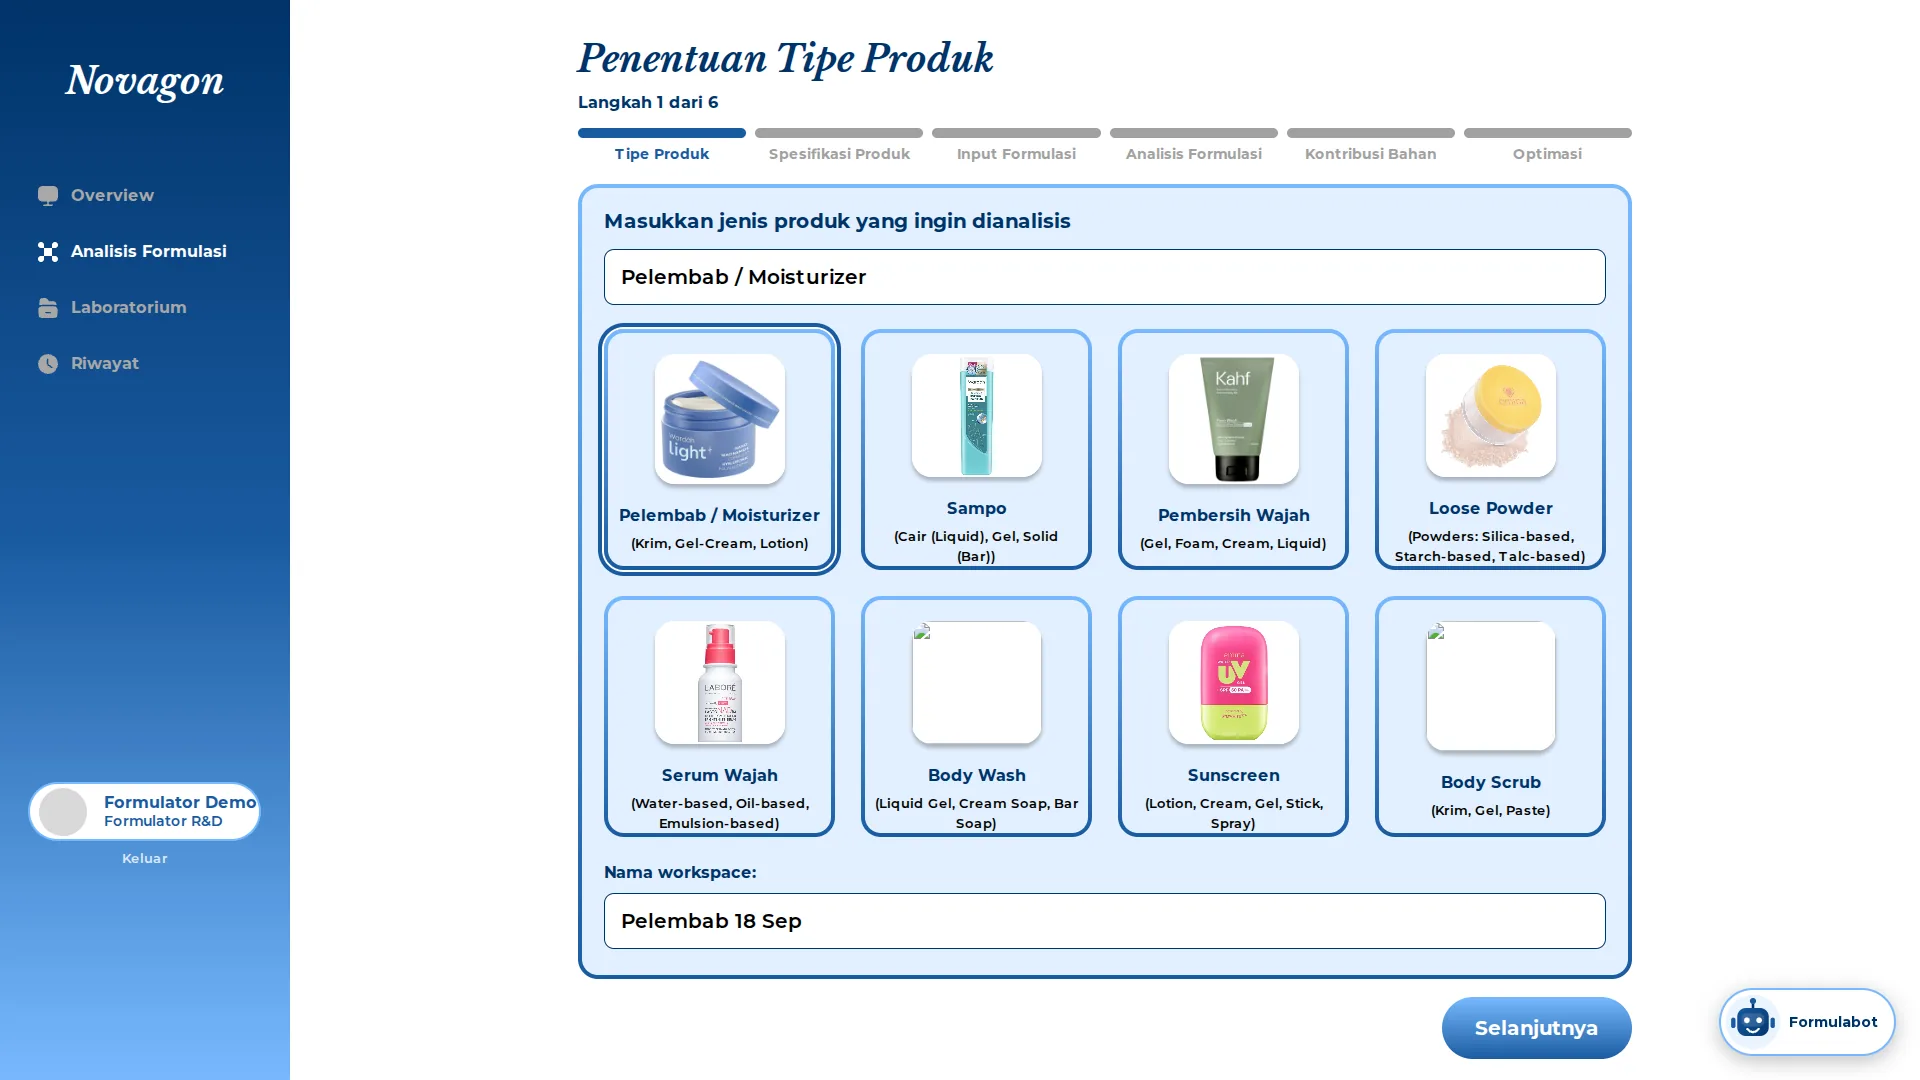
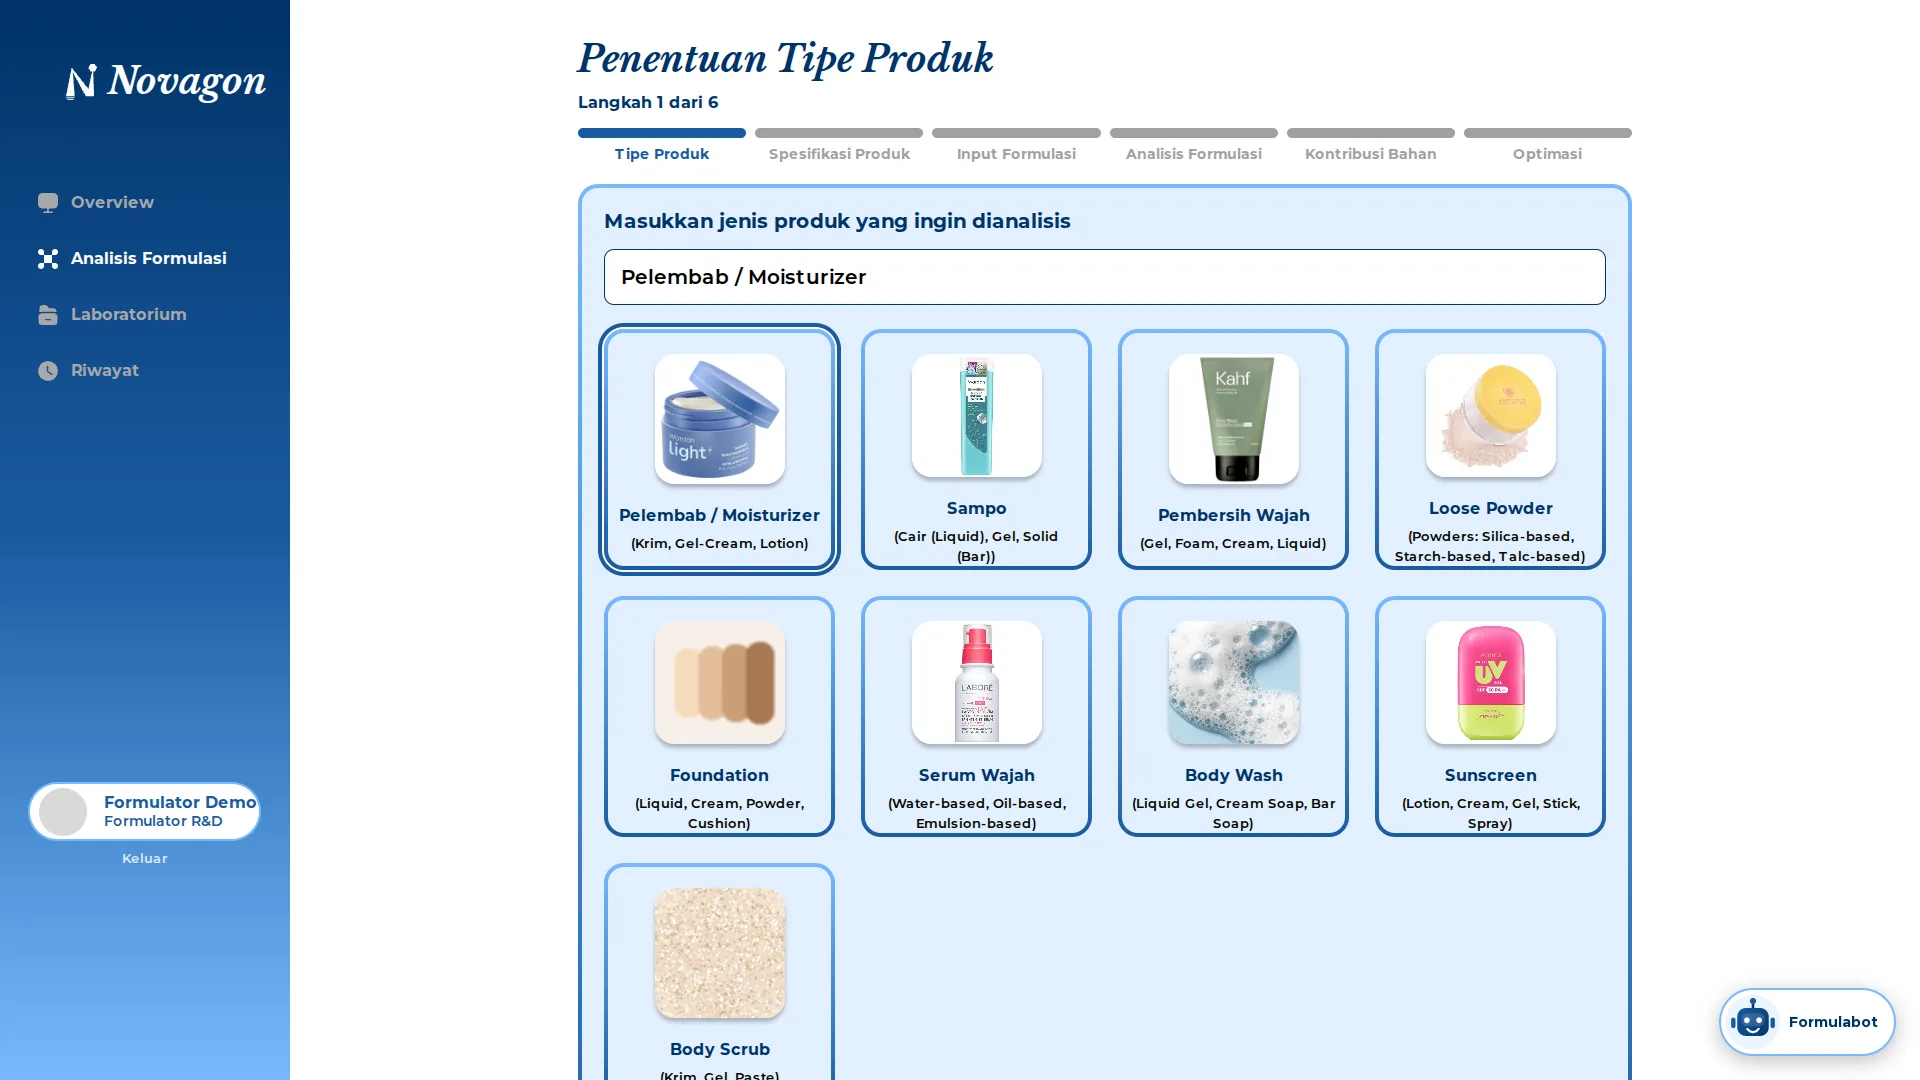
style(landing): show wizard screenshots as a 3d coverflow
The six screenshots sat in a static grid. They now rotate through a
coverflow: the active step faces front, neighbours turn away and fade
toward the edges, and the strip advances every 4.5 seconds. Step 1 is
recaptured after every product image finished loading.

diff --git a/src/components/landing/Sections.tsx b/src/components/landing/Sections.tsx
@@ -1,5 +1,8 @@
+'use client'
+
 import { Logo } from '@/components/ui/Logo'
 import Link from 'next/link'
+import { useEffect, useState } from 'react'
 import { Reveal, Wave, SignInLink } from './Motion'
 
 const STEPS = [
@@ -36,6 +39,61 @@ const BRANDS = [
 
 const container = 'mx-auto max-w-[1150px] px-4 sm:px-8'
 
+/** Coverflow: the active shot faces front, neighbours turn away and fade. Click a side card to bring it forward. */
+function StepCarousel() {
+  const [active, setActive] = useState(0)
+  const [paused, setPaused] = useState(false)
+  const n = STEPS.length
+
+  useEffect(() => {
+    if (paused) return
+    const t = setInterval(() => setActive((a) => (a + 1) % n), 4500)
+    return () => clearInterval(t)
+  }, [paused, n])
+
+  return (
+    <div className="mt-[clamp(20px,3vw,40px)]" onMouseEnter={() => setPaused(true)} onMouseLeave={() => setPaused(false)}>
+      <ol className="relative mx-auto aspect-video w-full max-w-[720px] [perspective:1400px]" aria-live="polite">
+        {STEPS.map(([title, src], i) => {
+          let off = i - active
+          if (off > n / 2) off -= n
+          if (off < -n / 2) off += n
+          const hidden = Math.abs(off) > 2
+          return (
+            <li
+              key={title}
+              className="absolute inset-0 transition-[transform,opacity] duration-700 ease-out motion-reduce:transition-none"
+              style={{
+                transform: `translateX(${off * 58}%) translateZ(${-Math.abs(off) * 220}px) rotateY(${-off * 32}deg)`,
+                opacity: hidden ? 0 : 1 - Math.abs(off) * 0.3,
+                zIndex: 10 - Math.abs(off),
+                pointerEvents: hidden ? 'none' : 'auto',
+              }}
+              aria-hidden={off !== 0 || undefined}
+            >
+              <button type="button" onClick={() => setActive(i)} className="block h-full w-full cursor-pointer text-left" tabIndex={off === 0 ? -1 : 0}>
+                {/* eslint-disable-next-line @next/next/no-img-element */}
+                <img src={src} alt={`Tangkapan layar langkah ${i + 1}: ${title}`} width={1920} height={1080} loading={i ? 'lazy' : 'eager'} className="aspect-video w-full rounded-[20px] border-4 border-blue/40 bg-white object-cover shadow-card" />
+              </button>
+            </li>
+          )
+        })}
+      </ol>
+      <p className="mt-5 flex items-center justify-center gap-3 text-[18px] font-bold text-navy">
+        <span className="flex size-9 shrink-0 items-center justify-center rounded-full bg-btn-gradient font-serif text-[17px] italic text-white">{active + 1}</span>
+        {STEPS[active][0]}
+      </p>
+      <div className="mt-3 flex justify-center gap-2">
+        {STEPS.map(([title], i) => (
+          <button key={title} type="button" onClick={() => setActive(i)} aria-current={i === active || undefined} className="size-2.5 rounded-full bg-navy/25 transition-colors aria-[current]:bg-blue">
+            <span className="sr-only">Langkah {i + 1}: {title}</span>
+          </button>
+        ))}
+      </div>
+    </div>
+  )
+}
+
 export function ServiceSection() {
   return (
     <section id="service" className="scroll-mt-4 bg-mist">
@@ -45,20 +103,7 @@ export function ServiceSection() {
           <p className="text-[13px] font-bold uppercase tracking-[0.2em] text-blue">Service</p>
           <h2 className="mt-2 font-serif text-[clamp(28px,3vw,40px)] font-bold italic text-navy">Enam langkah dari ide ke formula</h2>
         </Reveal>
-        <ol className="mt-[clamp(20px,3vw,40px)] grid gap-6 md:grid-cols-2">
-          {STEPS.map(([title, src], i) => (
-            <Reveal key={title} delay={i * 60}>
-              <li>
-                {/* eslint-disable-next-line @next/next/no-img-element */}
-                <img src={src} alt={`Tangkapan layar langkah ${i + 1}: ${title}`} width={1920} height={1080} loading={i ? 'lazy' : 'eager'} className="aspect-video w-full rounded-[20px] border-4 border-blue/40 object-cover shadow-card" />
-                <p className="mt-3 flex items-center gap-3 text-[18px] font-bold text-navy">
-                  <span className="flex size-9 shrink-0 items-center justify-center rounded-full bg-btn-gradient font-serif text-[17px] italic text-white">{i + 1}</span>
-                  {title}
-                </p>
-              </li>
-            </Reveal>
-          ))}
-        </ol>
+        <StepCarousel />
         <Reveal className="mt-[clamp(24px,3vw,40px)] flex justify-center">
           <Link href="/analisis" className="btn-primary">
             Mulai Analisis Formulasi
